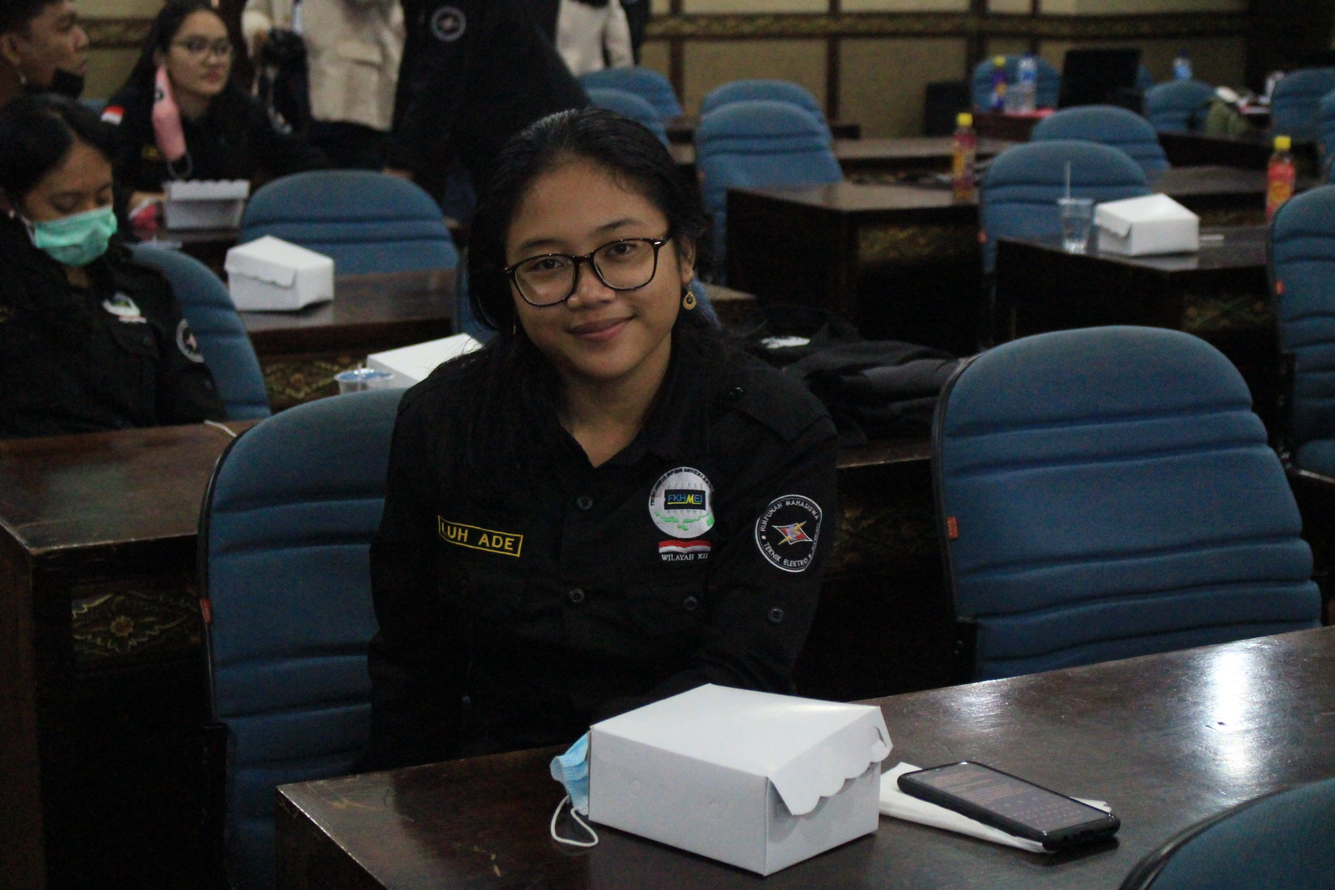
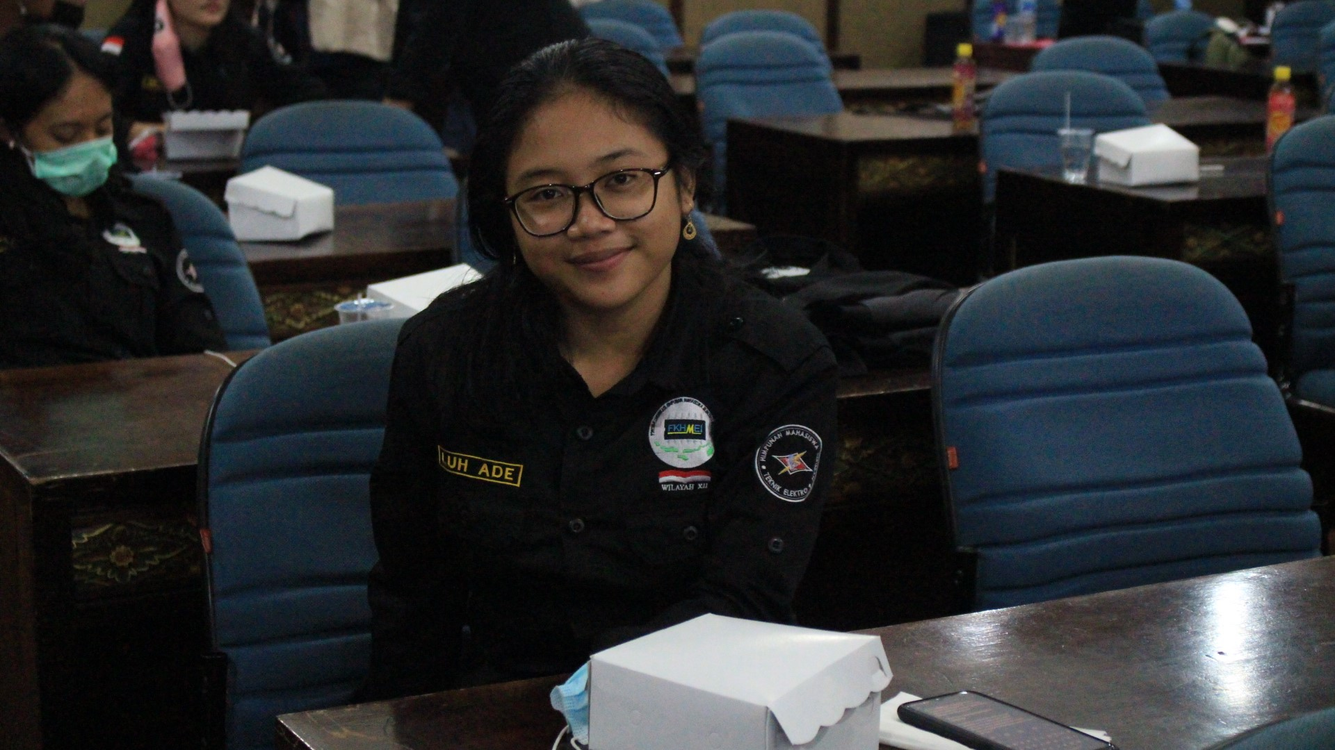
update news

diff --git a/index.html b/index.html
@@ -130,10 +130,10 @@
             <div class="col-md-3 md-2">
                 <div class="card-news">
                     <div class="image-news">
-                        <img class="image-news" src="/img/artikel1.JPG" alt="">
+                        <img class="image-news" src="/img/artikel2.JPG" alt="">
                     </div>
                     <div class="news-header">
-                        <p class="header-news">Debat Calon Ketua Hmj TE</p>
+                        <p class="header-news">Operator Handal Debat HMJ</p>
                         <img class="img-author" src="/img/author.png" alt=""> <span class="name">Arya | <span>9 November 2020</span></span> 
                     </div>
                     <div class="news-item">
@@ -149,10 +149,10 @@
             <div class="col-md-3 md-2">
                 <div class="card-news">
                     <div class="image-news">
-                        <img class="image-news" src="/img/artikel1.JPG" alt="">
+                        <img class="image-news" src="/img/artikel3.JPG" alt="">
                     </div>
                     <div class="news-header">
-                        <p class="header-news">Debat Calon Ketua Hmj TE</p>
+                        <p class="header-news">Salah Satu Pastisipan </p>
                         <img class="img-author" src="/img/author.png" alt=""> <span class="name">Arya | <span>9 November 2020</span></span> 
                     </div>
                     <div class="news-item">
